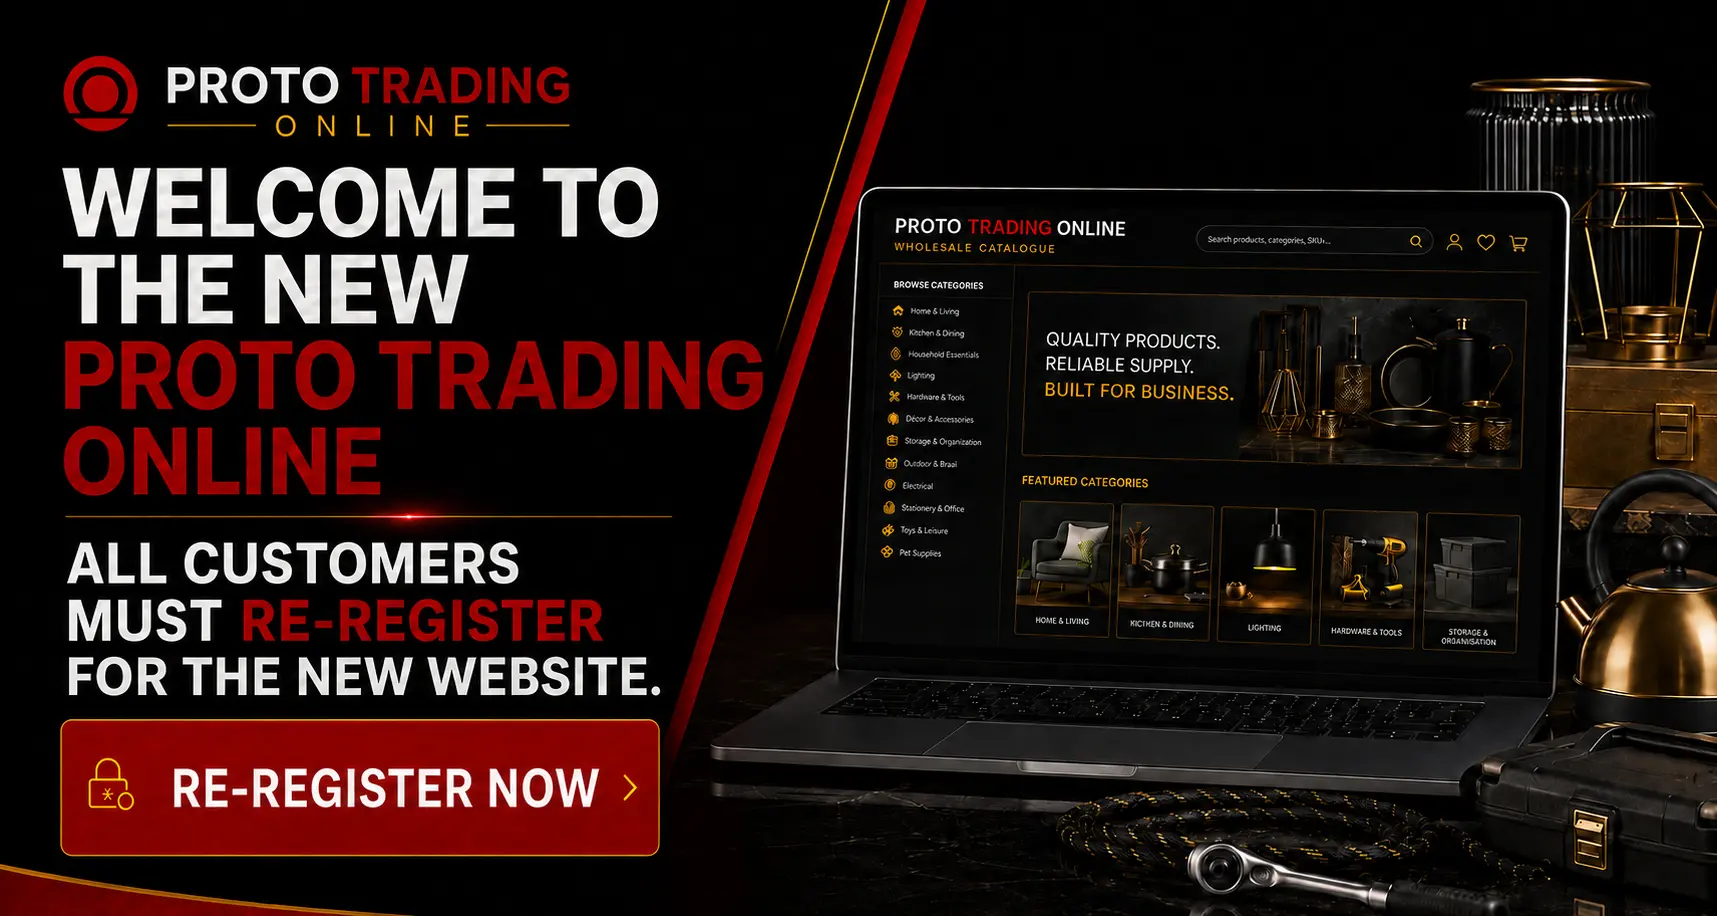
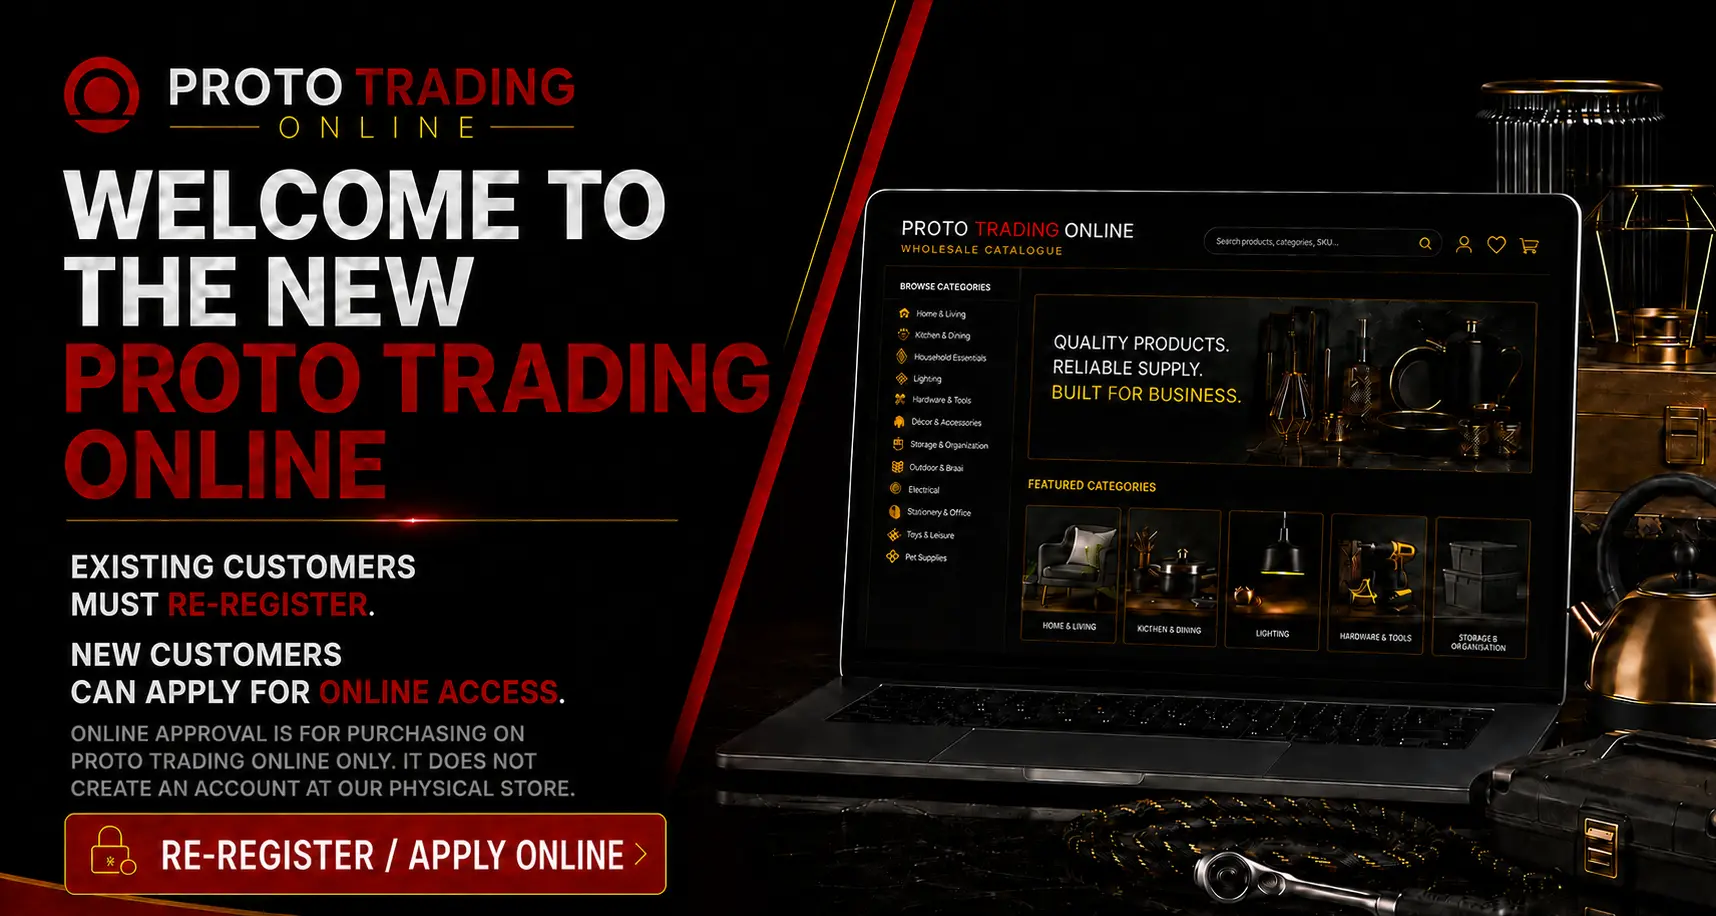
Clarify re-registration and online access

diff --git a/src/pages/RegisterPage.jsx b/src/pages/RegisterPage.jsx
@@ -656,12 +656,12 @@ export default function RegisterPage({ onLogin, standalone = false }) {
       <button
         type="button"
         className="lp-register-banner-action"
-        aria-label="All customers must re-register for the new website. Go to the re-registration form."
+        aria-label="Existing customers must re-register. New customers can apply for Proto Trading Online access. Online approval does not create an account at our physical store. Go to the registration form."
         onClick={() => document.getElementById('trade-registration-form')?.scrollIntoView({ behavior: 'smooth', block: 'start' })}
       >
         <img
-          src="/register-reregister-banner.webp?v=1"
-          alt="Welcome to the new Proto Trading Online. All customers must re-register for the new website. Re-register now."
+          src="/register-reregister-banner.webp?v=2"
+          alt="Welcome to the new Proto Trading Online. Existing customers must re-register. New customers can apply for online access. Online approval does not create an account at our physical store."
           fetchPriority="high"
           decoding="async"
         />
@@ -697,15 +697,17 @@ export default function RegisterPage({ onLogin, standalone = false }) {
             <div className="lp-register-shell">
               <div className="lp-register-intro">
                 <span className="lp-eyebrow lp-eyebrow-light">Trade registration</span>
-                <h1>Open your wholesale trade account</h1>
+                <h1>Re-register or apply for Proto Trading Online access</h1>
                 <p>
-                  Apply once to access live stock, trade pricing, and our full catalogue.
-                  Approved accounts can sign in immediately after approval.
+                  Existing customers must re-register for the new online website.
+                  New customers can apply for online purchasing access. Approval gives
+                  access to Proto Trading Online only and does not create an account
+                  for purchases at our physical store.
                 </p>
                 <ul className="lp-apply-list">
-                  <li>Instant approval for new trade customers</li>
-                  <li>Live stock checks on every product</li>
-                  <li>Order builder with PDF quote requests</li>
+                  <li>Existing customers must re-register for the new website</li>
+                  <li>New applications are reviewed before online access is approved</li>
+                  <li>Live stock, trade pricing, and online ordering</li>
                 </ul>
               </div>
               {registerCard}

diff --git a/tests/accessibility/registration-banner.test.js b/tests/accessibility/registration-banner.test.js
@@ -6,10 +6,14 @@ test('the registration banner sends every customer to the re-registration form',
   const source = await readFile(new URL('../../src/pages/RegisterPage.jsx', import.meta.url), 'utf8');
 
   assert.match(source, /id="trade-registration-form"/);
-  assert.match(source, /src="\/register-reregister-banner\.webp\?v=1"/);
-  assert.match(source, /All customers must re-register for the new website/);
+  assert.match(source, /src="\/register-reregister-banner\.webp\?v=2"/);
+  assert.match(source, /Existing customers must re-register/);
+  assert.match(source, /New customers can apply for Proto Trading Online access/);
+  assert.match(source, /does not create an account at our physical store/);
+  assert.match(source, /New applications are reviewed before online access is approved/);
   assert.match(source, /getElementById\('trade-registration-form'\)\?\.scrollIntoView/);
   assert.match(source, /standaloneStep === 0 && registrationBanner/);
   assert.match(source, /\{registrationBanner\}\s*<div className="lp-register-shell">/);
+  assert.doesNotMatch(source, /Instant approval for new trade customers/);
   assert.doesNotMatch(source, /enjoy 7\.5% off your first online order/);
 });
